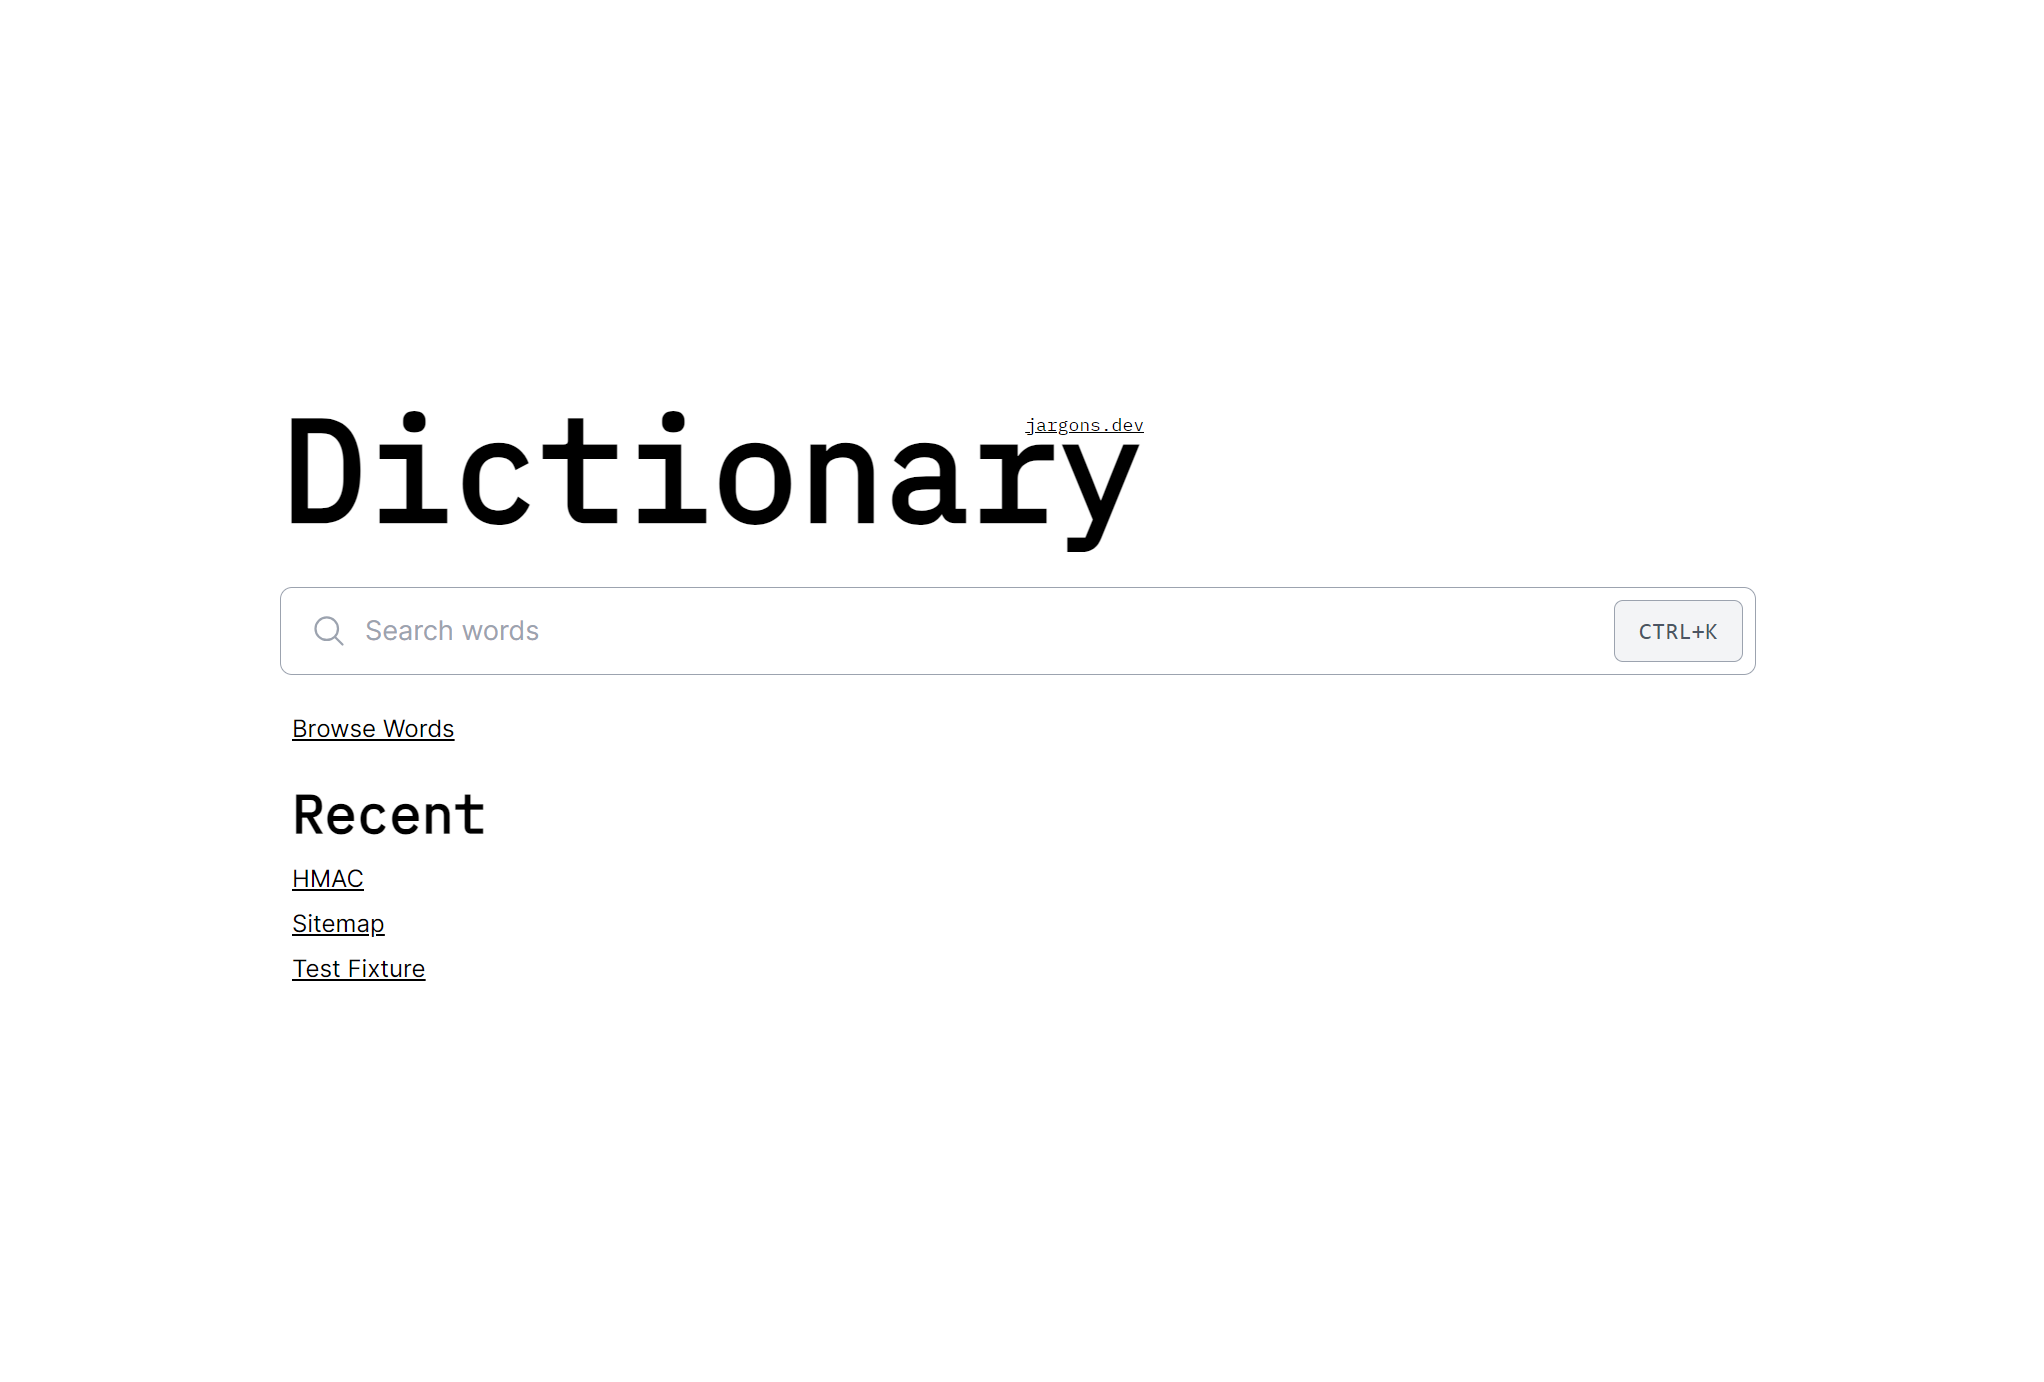
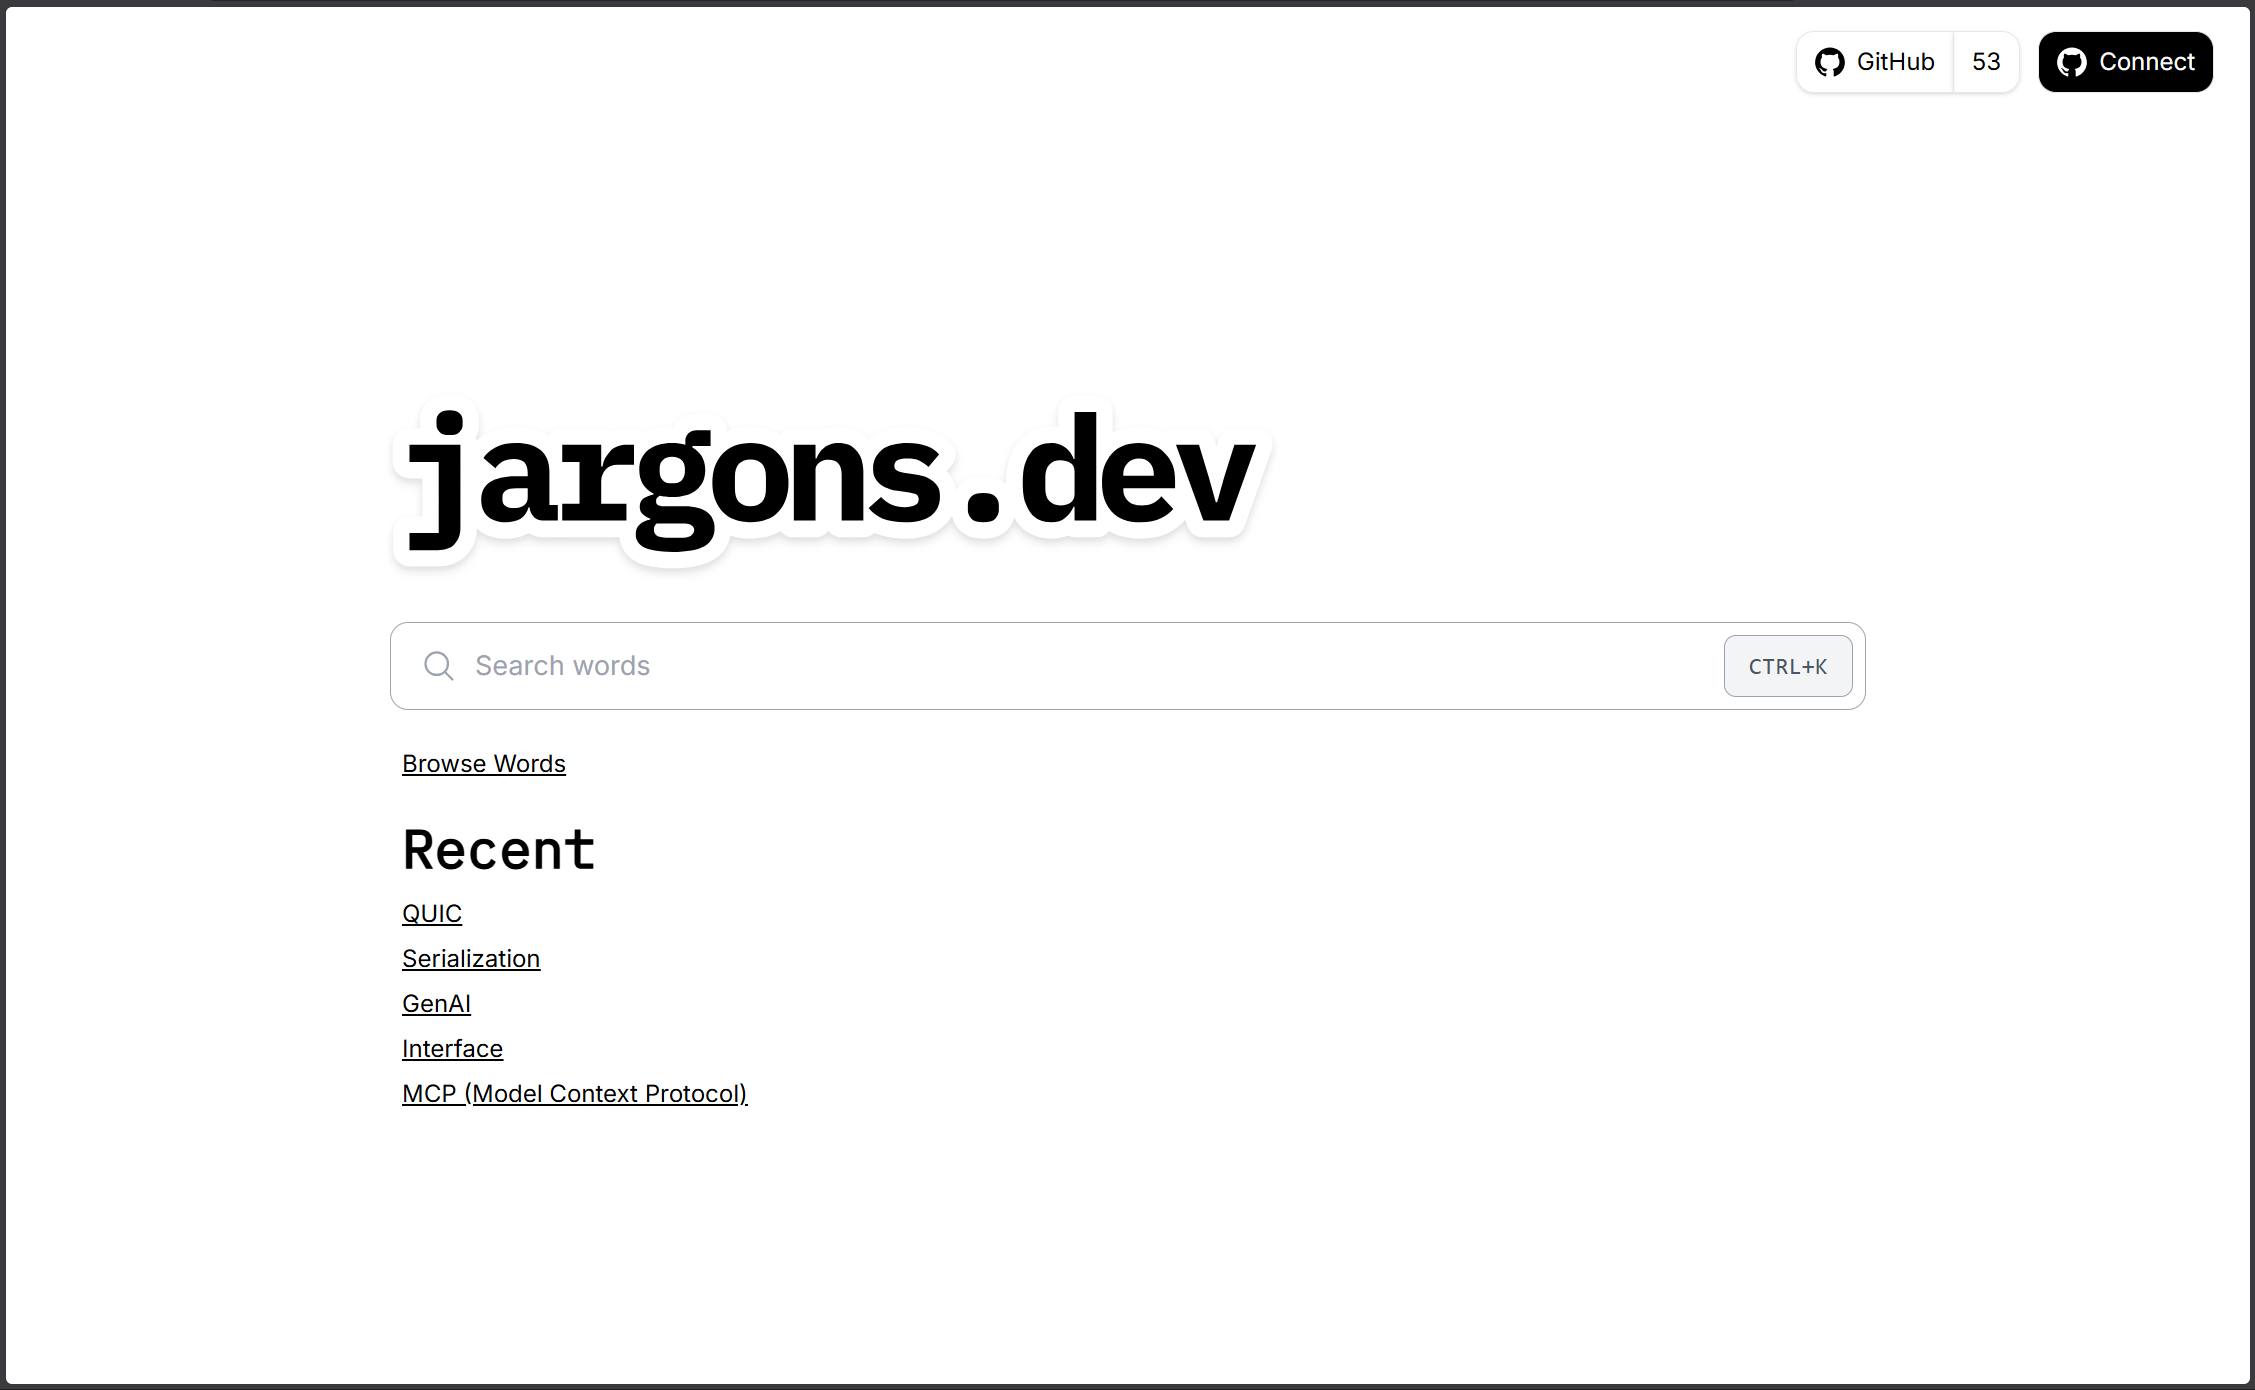
chore: add new projects to list (#12)
This pull request updates the project lists.

**Project Data and Categorization:**

* Added a new "open source" category to `categories` in
`data/projects.ts`, with a corresponding description and icon (`oss`).
* Added new open source projects ("Hearts" and "Semantic Release") and a
new business project ("SportFXP") to the `projects` array in
`data/projects.ts`.
* Removed two business projects ("Multifreight Nig. Ltd." and
"Cybernetics Oil (CISL)") from the `projects` array in
`data/projects.ts`.
* Improved the descriptions for the "itbey Co." and "hack" categories to
clarify their focus and mention open source where relevant.

diff --git a/data/projects.ts b/data/projects.ts
@@ -4,17 +4,22 @@ export const categories: ProjectCategoryObj[] = [
   {
     title: "itbey Co.",
     icon: "briefcase",
-    desc: "In-production projects crafted for businesses at itbey Co."
+    desc: "In-production projects created out of specific business needs for itbey Co. or its clients."
   },
   {
     title: "hack",
     icon: "lightbulb",
-    desc: "Some 'dumb' ideas I have played or currently playing with."
+    desc: "Some 'dumb' (mostly open source) ideas I have played or currently playing with."
   },
   {
     title: "tool",
     icon: "tool",
     desc: "Tools that I've created to (ease steps or) remove repitition from my workflow."
+  },
+  {
+    title: "open source",
+    icon: "oss",
+    desc: "Open source projects that I'm maintaining, advocating or heavily contributing to."
   },
 ]
 
@@ -26,6 +31,30 @@ export const projects: Project[] = [
     image: "/jargons.dev.png",
     desc: "A community-driven dictionary that simplifies software engineering terms.",
     category: "hack"
+  },
+  {
+    title: "SportFXP",
+    url: "https://sportfxp.com",
+    linkText: "View Website",
+    image: "/sportfxp.png",
+    desc: "An infrastructure layer for modern Sports clubs and federation.",
+    category: "itbey Co."
+  },
+  {
+    title: "Hearts",
+    url: "https://hearts.dev",
+    linkText: "Visit Website",
+    image: "/hearts.dev.png",
+    desc: "A tool to help recognize and celebrate open source contributors.",
+    category: "open source"
+  },
+  {
+    title: "Semantic Release",
+    url: "https://github.com/semantic-release/semantic-release",
+    linkText: "See Project",
+    image: "/semantic-release.png",
+    desc: "A tool to help automate the release process of software projects.",
+    category: "open source"
   },
   {
     title: "Private Key Converter",
@@ -41,22 +70,6 @@ export const projects: Project[] = [
     linkText: "View Website",
     image: "/robusthr.png",
     desc: "A product website for an all-in-one HR management software.",
-    category: "itbey Co."
-  },
-  {
-    title: "Multifreight Nig. Ltd.",
-    url: "https://multifreightnig.com",
-    linkText: "View Website",
-    image: "/mfn.png",
-    desc: "A website developed for logistic and supply chain company in Nigeria.",
-    category: "itbey Co."
-  },
-  {
-    title: "Cybernetics Oil (CISL)",
-    url: "https://cyberneticsoil.com/",
-    linkText: "Visit Website",
-    image: "/cisl.png",
-    desc: "A website developed for a petroleum products trading company in Nigeria.",
     category: "itbey Co."
   },
 ];

diff --git a/components/icons.tsx b/components/icons.tsx
@@ -15,7 +15,8 @@ import {
   ExternalLink,
   Sun,
   MoonStar,
-  Laptop
+  Laptop,
+  GitPullRequest
 } from "lucide-react";
 
 export type Icon = LucideIcon;
@@ -36,6 +37,7 @@ export const Icons = {
   sun: Sun,
   moon: MoonStar,
   laptop: Laptop,
+  oss: GitPullRequest,
   logo: ({ ...props }: LucideProps) => (
     <svg width="24" height="24" viewBox="0 0 190 190" version="1.1" 
       style={{shapeRendering:"geometricPrecision", textRendering:"geometricPrecision", fillRule:"evenodd", clipRule:"evenodd"}}

diff --git a/components/project-card.tsx b/components/project-card.tsx
@@ -34,7 +34,7 @@ export function ProjectCard({ title, desc, image, category, url, linkText }: Pro
           width={900}
           height={300}
           alt={title}
-          className="w-full h-full object-cover object-left-top hover:scale-125 transition-transform ease-linear"
+          className="w-full h-full object-cover object-center-top hover:scale-125 transition-transform ease-linear"
           loading="lazy"
         />
       </div>

diff --git a/config/nav.ts b/config/nav.ts
@@ -8,9 +8,9 @@ export const navConfig: NavConfig = {
     },
     {
       title: "Blog",
-      href: "/blog",
-      disabled: true, // Pending Feature Built
-      wip: true
+      href: "https://dev.to/babblebey",
+      // disabled: true, // Pending Feature Built
+      // wip: true
     },
     {
       title: "Tools",

diff --git a/types/index.d.ts b/types/index.d.ts
@@ -43,4 +43,4 @@ export type ProjectCategoryObj = {
   desc: string
 }
 
-export type ProjectCategory = "itbey Co." | "hack" | "tool"
+export type ProjectCategory = "itbey Co." | "hack" | "tool" | "open source"
